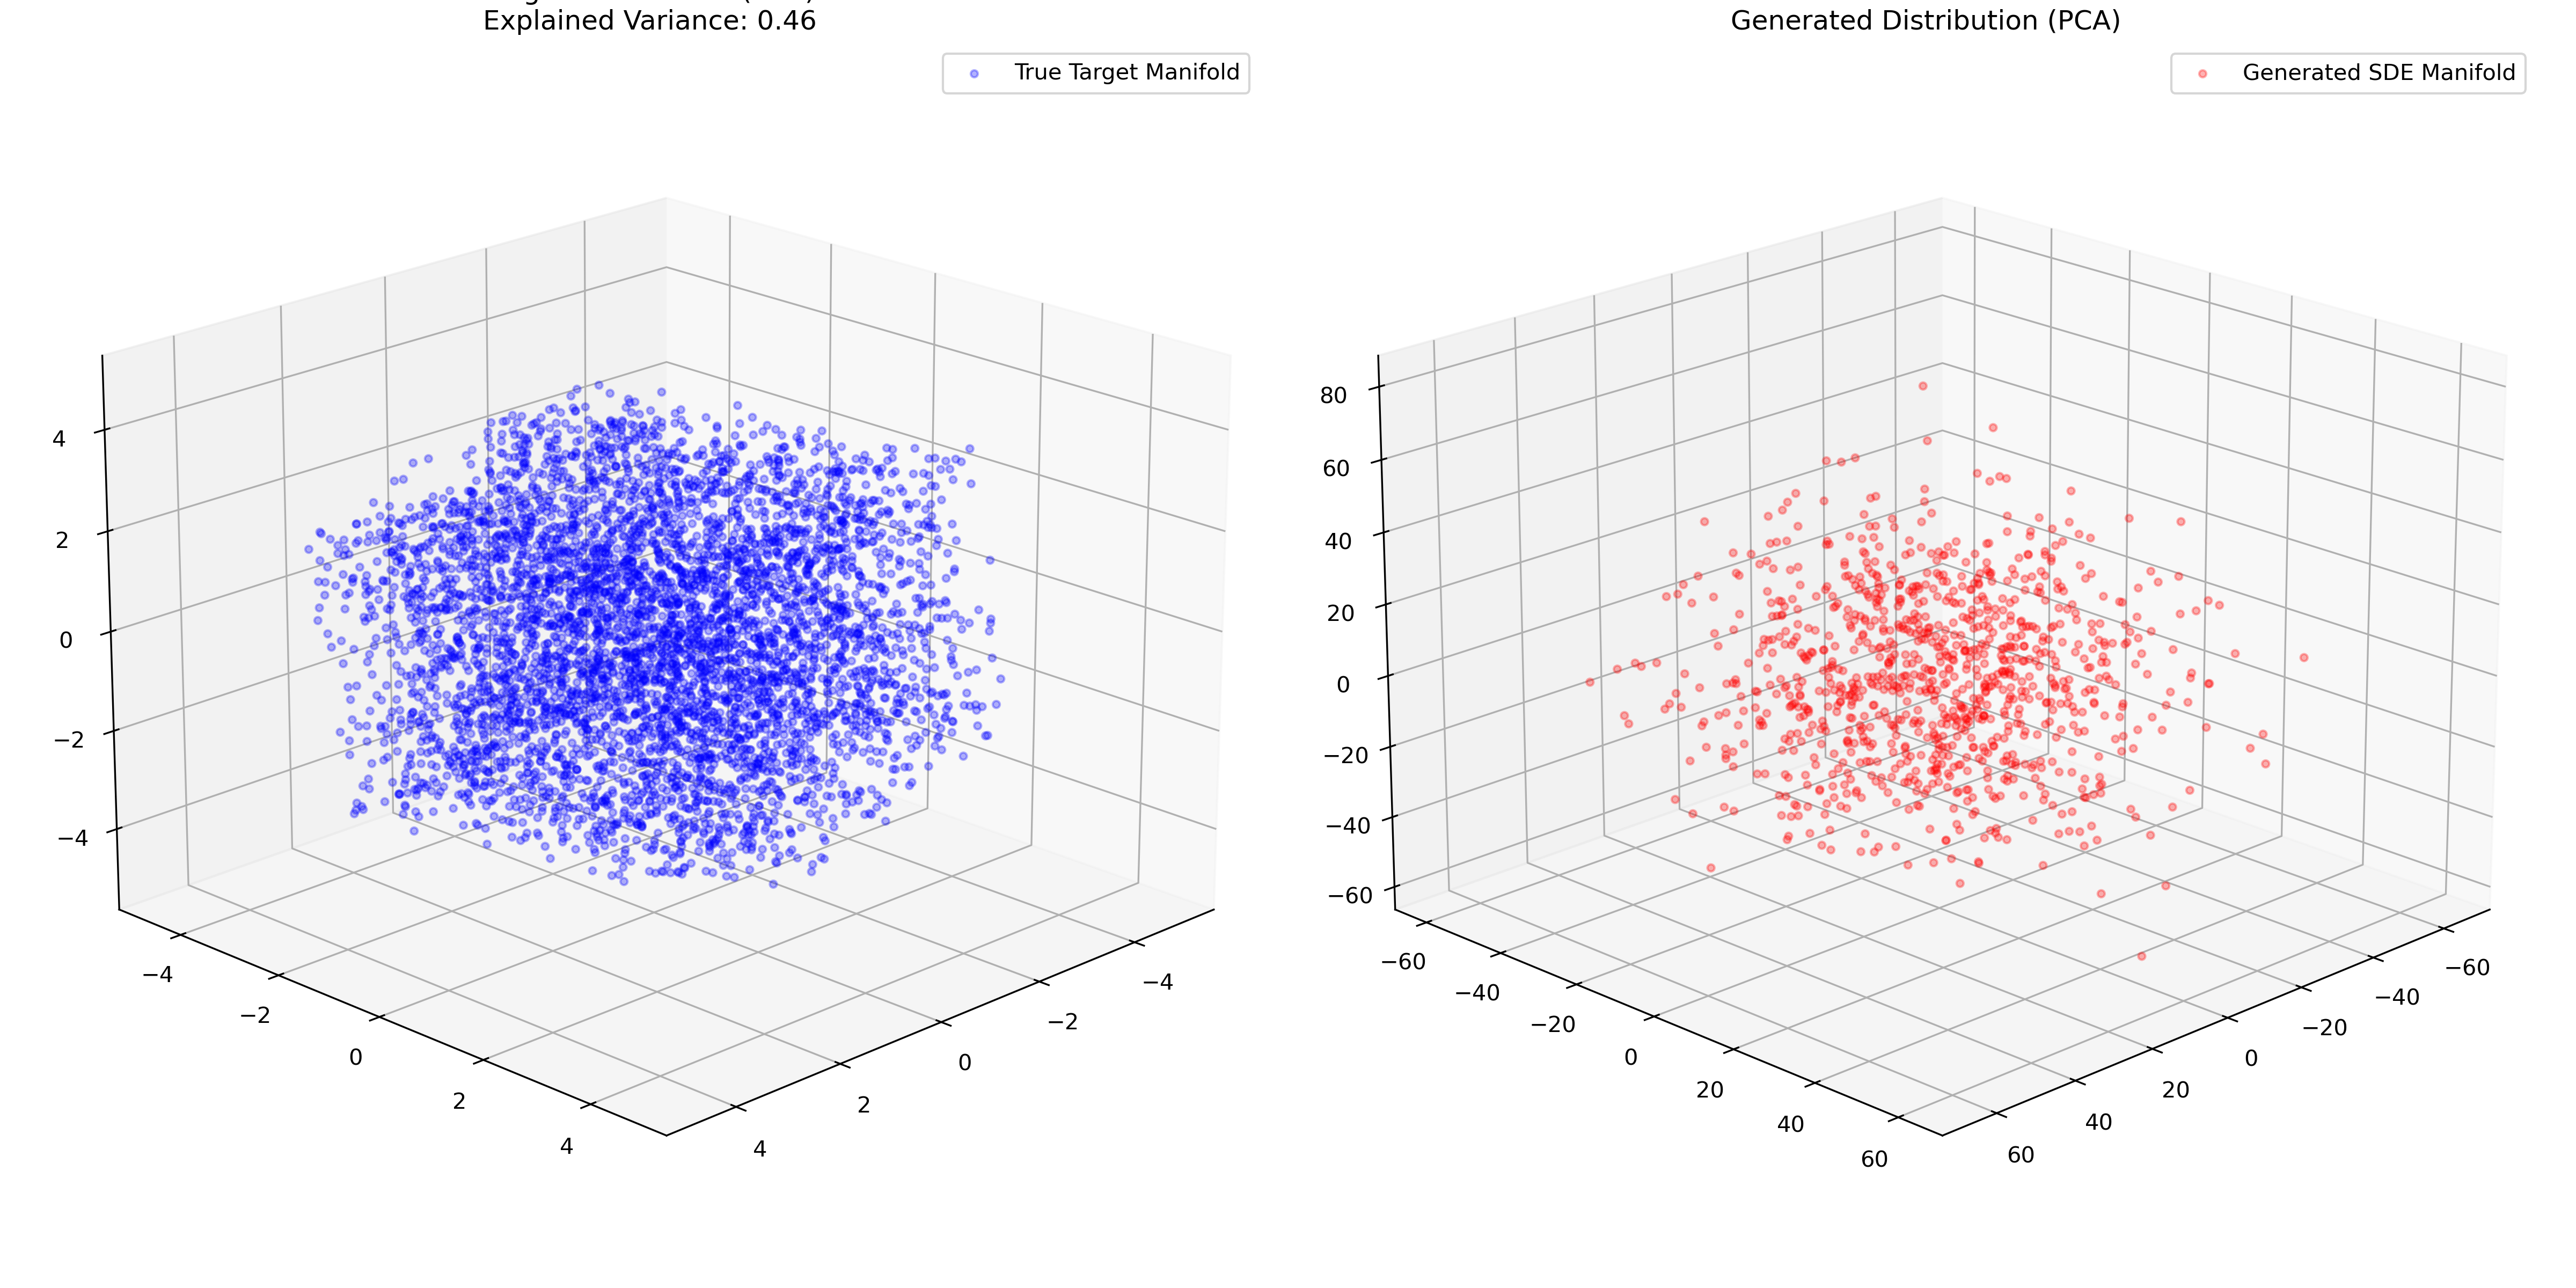
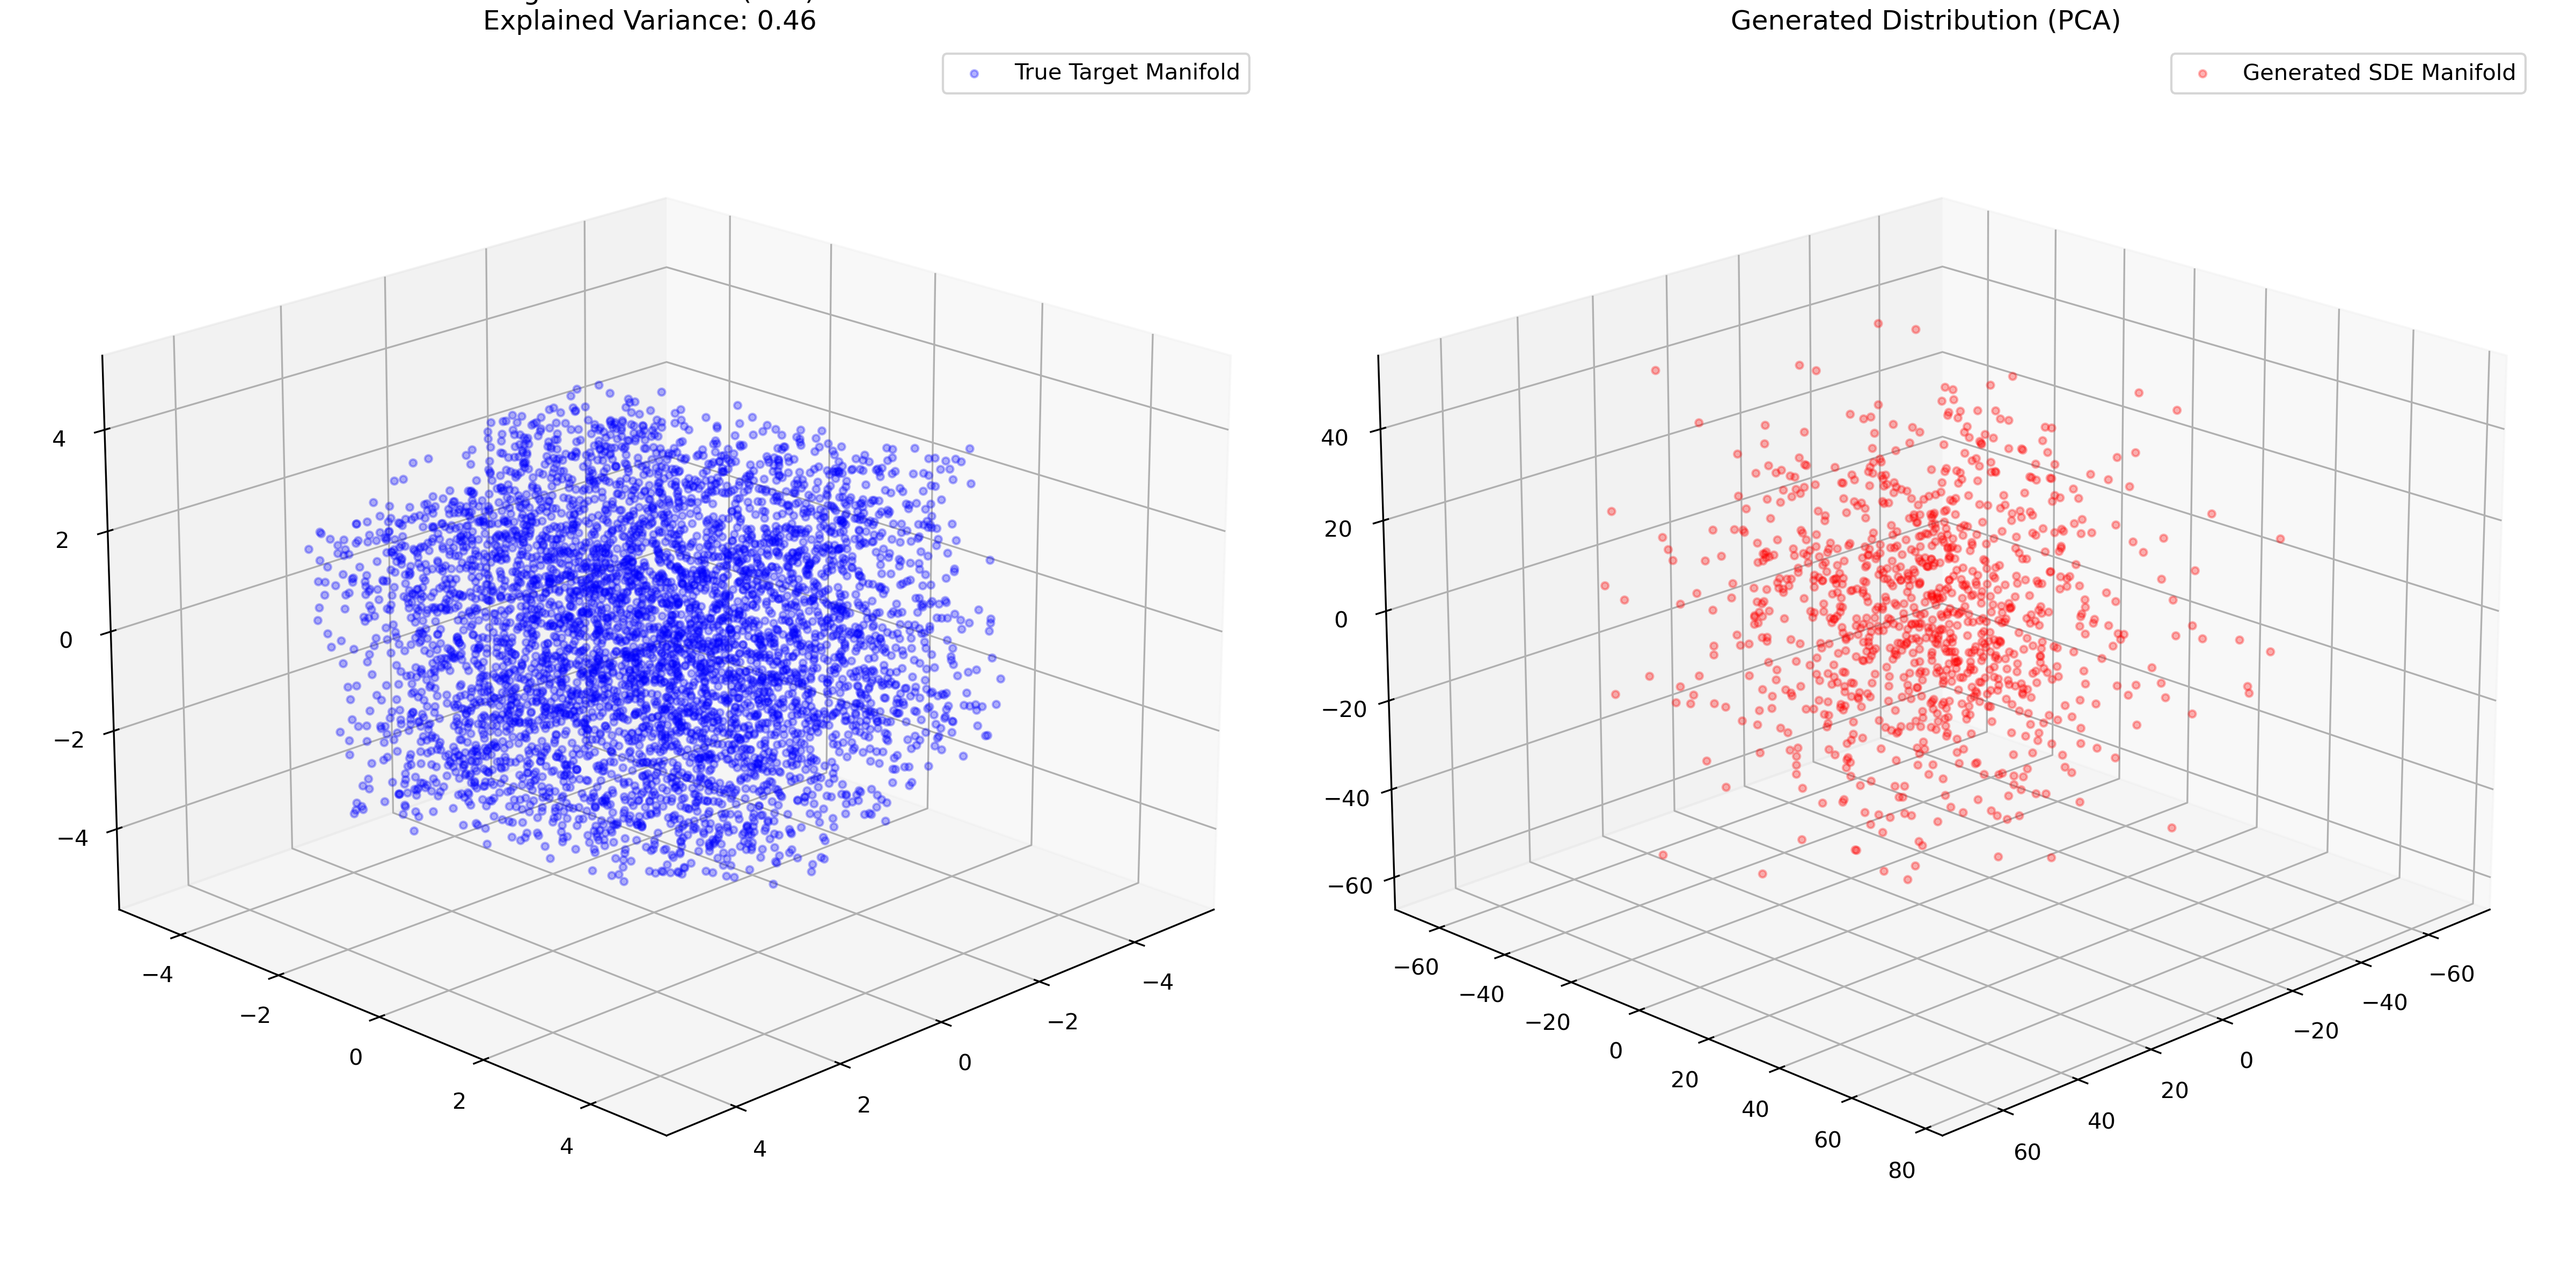
premier essais

diff --git a/generative_model_arch/src/SDEintegrator.py b/generative_model_arch/src/SDEintegrator.py
@@ -1,51 +1,18 @@
 import torch
 from src.wavelet_map import compute_feature_gradients
-from src.gluing import compute_global_drift
 from src.diffusion import compute_optimal_diffusion
-
-'''def generate_samples(model: torch.nn.Module,
-                     precomputed_etas: list, 
-                     cluster_centers: torch.Tensor,
-                     num_samples: int, 
-                     ambient_dim: int, 
-                     num_time_steps: int = 100,
-                     device: torch.device = torch.device('cpu')) -> torch.Tensor:
-    """
-    Executes the generative stochastic differential equation (SDE) using the Euler-Maruyama scheme.
-    Equation: dX_t = \hat{b}_t(X_t)dt + \sqrt{2 D_t^*} dW_t
-    """
-    X_t = torch.randn(num_samples, ambient_dim, device=device)
-    dt = 1.0 / num_time_steps
-    time_grid = torch.linspace(0, 1.0 - dt, num_time_steps)
-    
-    model.eval()
-    
-    for step, t in enumerate(time_grid):
-        feature_grads = compute_feature_gradients(model, X_t)
-        etas_t = precomputed_etas[step]
-        
-        b_t = compute_global_drift(X_t, feature_grads, etas_t, cluster_centers)
-        D_t_star = compute_optimal_diffusion(t.item())
-        
-        dW = torch.randn_like(X_t) * torch.sqrt(torch.tensor(dt))
-        X_t = X_t + b_t * dt + torch.sqrt(torch.tensor(2 * D_t_star)) * dW
-        
-    return X_t.detach()'''
-
-
 
 def generate_samples(model: torch.nn.Module,
                      precomputed_etas: list, 
-                     cluster_centers: torch.Tensor,
+                     chart_assignments: torch.Tensor,
                      num_samples: int, 
                      ambient_dim: int, 
                      num_time_steps: int = 100,
                      device: torch.device = torch.device('cpu'),
                      ode_mode: bool = False) -> torch.Tensor:
     """
-    Executes integration. 
-    If ode_mode=True: dX_t = \hat{b}_t(X_t)dt
-    If ode_mode=False: dX_t = \hat{b}_t(X_t)dt + \sqrt{2 D_t^*} dW_t
+    Executes integration using a Mixture of Independent Flows.
+    Bypasses spatial vector field gluing to eliminate destructive interference at the origin.
     """
     X_t = torch.randn(num_samples, ambient_dim, device=device)
     dt = 1.0 / num_time_steps
@@ -54,23 +21,33 @@ def generate_samples(model: torch.nn.Module,
     model.eval()
     
     for step, t in enumerate(time_grid):
-        X_t = X_t.detach() # Explicit detachment to prevent memory leakage
+        X_t = X_t.detach()
         
-        feature_grads = compute_feature_gradients(model, X_t)
-        etas_t = precomputed_etas[step]
+        feature_grads = compute_feature_gradients(model, X_t) # Shape: (N, P, p)
+        etas_t = precomputed_etas[step] 
+        num_charts = len(etas_t)
         
-        b_t = compute_global_drift(X_t, feature_grads, etas_t, cluster_centers)
+        # Dynamically construct the vector field strictly respecting chart assignments
+        b_t = torch.zeros_like(X_t)
         
-        # Diagnostic Logging: Monitor the L2 norm of the transport field
+        for i in range(num_charts):
+            mask = (chart_assignments == i)
+            if not mask.any():
+                continue
+                
+            eta_i = etas_t[i].to(device)
+            grads_i = feature_grads[mask] # (N_i, P, p)
+            
+            # Execute batch matrix multiplication for this specific chart
+            b_t[mask] = torch.matmul(grads_i.transpose(1, 2), eta_i.unsqueeze(1)).squeeze(-1)
+        
         if step % 10 == 0:
             drift_magnitude = torch.norm(b_t, dim=1).mean().item()
             print(f"Integration Step {step:02d} | t={t.item():.3f} | Mean Drift L2 Norm: {drift_magnitude:.6f}")
         
         if ode_mode:
-            # Execute deterministic Probability Flow ODE
             X_t = X_t + b_t * dt
         else:
-            # Execute standard Euler-Maruyama SDE
             D_t_star = compute_optimal_diffusion(t.item())
             dW = torch.randn_like(X_t) * torch.sqrt(torch.tensor(dt, device=device))
             X_t = X_t + b_t * dt + torch.sqrt(torch.tensor(2 * D_t_star, device=device)) * dW

diff --git a/generative_model_arch/src/wavelet_map.py b/generative_model_arch/src/wavelet_map.py
@@ -1,10 +1,13 @@
+# Replace the contents of src/wavelet_map.py with this:
 import torch
 import torch.nn as nn
+import numpy as np
 
 class TruncatedBesovWaveletMap(nn.Module):
     """
     Implements the deterministic feature map \phi(x) : R^p -> R^P.
-    Strictly scales the hypothesis space to match the intrinsic regularity \mathcal{H}_1^{d/2}.
+    Utilizes a wide, untrained, non-linear network to approximate 
+    a sufficiently expressive geometric basis for the local tangent spaces.
     """
     def __init__(self, ambient_dim: int, intrinsic_dim: int, p_truncation: int):
         super().__init__()
@@ -12,13 +15,33 @@ class TruncatedBesovWaveletMap(nn.Module):
         self.d = intrinsic_dim
         self.P = p_truncation
         
-        torch.manual_seed(42)
-        self.basis_matrix = nn.Parameter(torch.randn(self.p, self.P) / self.p, requires_grad=False)
-        self.basis_bias = nn.Parameter(torch.rand(self.P) * 2 * torch.pi, requires_grad=False)
+        # We must use a large expansion factor to ensure the hypothesis space is rich enough
+        hidden_dim = self.P * 4 
+        
+        # A fixed, shallow MLP acts as a generalized random feature extractor.
+        # GELU provides the necessary higher-order smoothness required by the bounds.
+        self.net = nn.Sequential(
+            nn.Linear(self.p, hidden_dim),
+            nn.GELU(),
+            nn.Linear(hidden_dim, self.P),
+            nn.GELU()
+        )
+        
+        # Ensure the parameters are strictly frozen (no training)
+        for param in self.parameters():
+            param.requires_grad = False
+            
+        # Re-initialize with heavy-tailed distributions to prevent vanishing gradients
+        for m in self.modules():
+            if isinstance(m, nn.Linear):
+                nn.init.kaiming_uniform_(m.weight, a=np.sqrt(5))
+                if m.bias is not None:
+                    fan_in, _ = nn.init._calculate_fan_in_and_fan_out(m.weight)
+                    bound = 1 / np.sqrt(fan_in) if fan_in > 0 else 0
+                    nn.init.uniform_(m.bias, -bound, bound)
 
     def forward(self, x: torch.Tensor) -> torch.Tensor:
-        projection = torch.matmul(x, self.basis_matrix) + self.basis_bias
-        return torch.sin(projection) * torch.exp(-0.1 * (projection ** 2))
+        return self.net(x)
 
 def compute_feature_gradients(model: nn.Module, x: torch.Tensor) -> torch.Tensor:
     x.requires_grad_(True)

diff --git a/generative_model_arch/src/local_linear_regression.py b/generative_model_arch/src/local_linear_regression.py
@@ -22,9 +22,9 @@ def solve_local_system(feature_grads: torch.Tensor, target_vectors: torch.Tensor
         r_t += torch.matmul(grad_matrix, target)
     r_t /= N_i
     
-    #eta_t = torch.linalg.solve(K_t, r_t)
+    eta_t = torch.linalg.solve(K_t, r_t)
     #Test coefficient collapse hypothesis
-    eta_t = torch.linalg.lstsq(K_t, r_t, rcond=1e-5).solution
+    #eta_t = torch.linalg.lstsq(K_t, r_t, rcond=1e-5).solution
     
     return eta_t
 